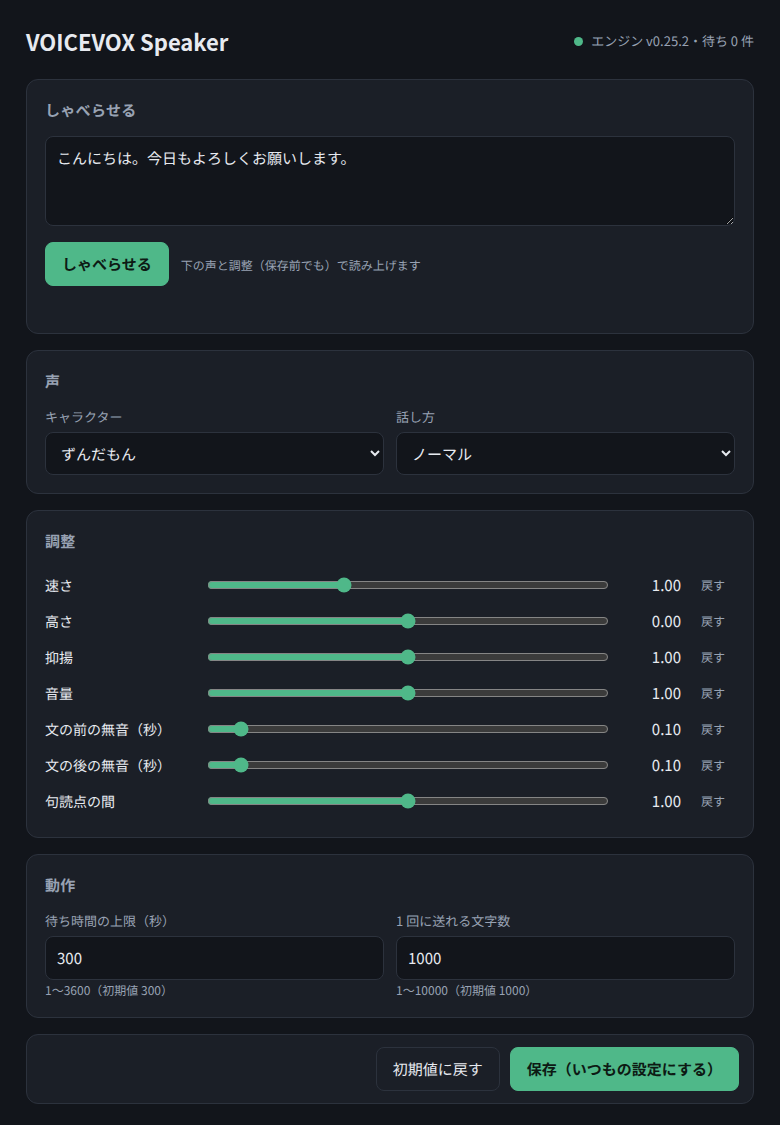
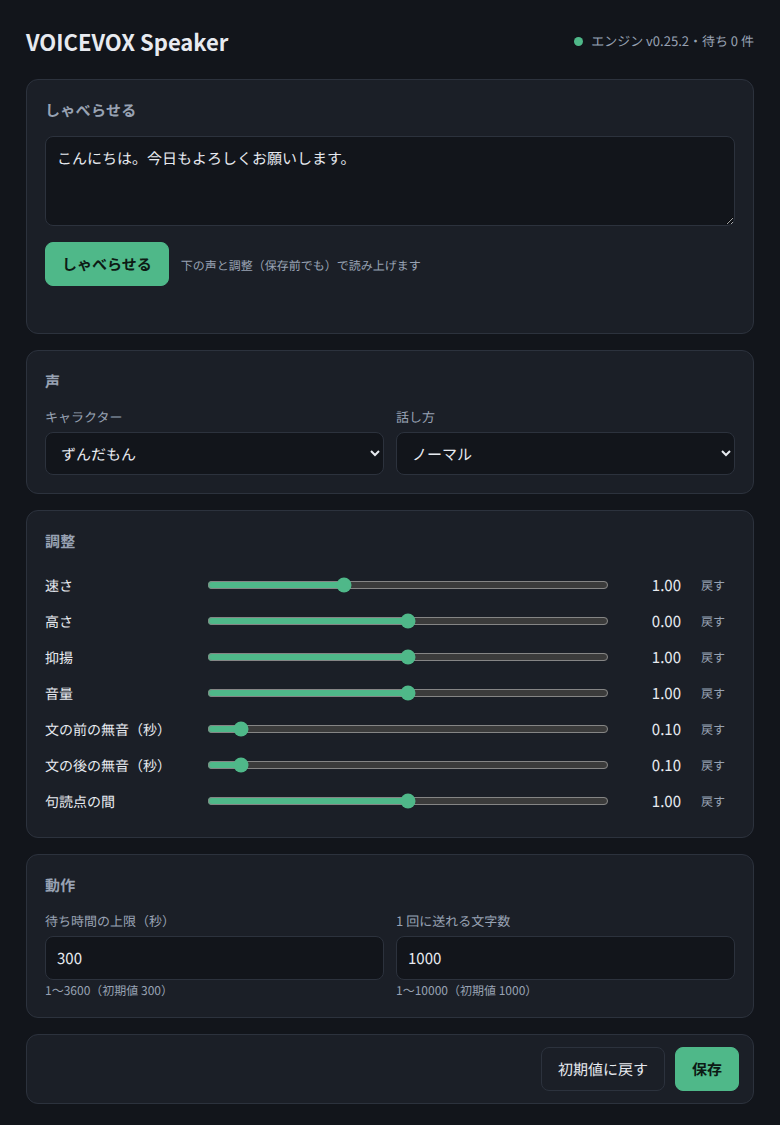
Shorten the save button label

Changed region(s): [[0.6462, 0.9333, 0.9231, 0.9956], [0.4923, 0.9333, 0.6154, 0.9644]]

diff --git a/static/index.html b/static/index.html
@@ -115,7 +115,7 @@
   <div class="savebar">
     <span class="dirty" id="dirty"></span>
     <button id="resetBtn">初期値に戻す</button>
-    <button class="primary" id="saveBtn">保存（いつもの設定にする）</button>
+    <button class="primary" id="saveBtn">保存</button>
   </div>
   <div class="msg" id="saveMsg" style="text-align:right"></div>
 </main>
